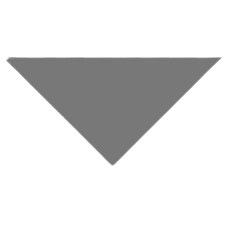
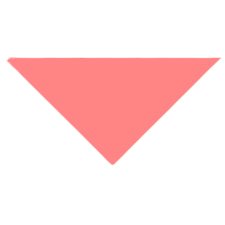
Updated

Changed region(s): [[0.0311, 0.2489, 0.9956, 0.7467]]

diff --git a/src/views/HomeView.vue b/src/views/HomeView.vue
@@ -87,7 +87,7 @@
           <div>Safety check</div>
           <div class="border flex gap-1 items-center px-3 py-1">
             <div>24h</div>
-            <img src="@/assets/dropdown.png" class="w4 h-4" />
+            <img src="@/assets/triangle.png" class="w4 h-4" />
           </div>
         </div>
         <div class="flex justify-between">
@@ -131,7 +131,7 @@
         <div class="p-2 flex justify-between bg-gray-light rounded-md">
           <div class="flex items-center gap-4">
             <div>SOL</div>
-            <img src="@/assets/dropdown.png" class="w-4 h-4" />
+            <img src="@/assets/triangle.png" class="w-4 h-4" />
           </div>
           <div class="flex flex-col gap-2 items-end">
             <div>0.00</div>
@@ -143,10 +143,10 @@
             </div>
           </div>
         </div>
-        <img src="@/assets/dropdown.png" class="w-4 h-4 mx-auto" />
+        <img src="@/assets/triangle.png" class="w-4 h-4 mx-auto" />
         <div class="flex items-center gap-4 ml-2">
           <div>SOL</div>
-          <img src="@/assets/dropdown.png" class="w-4 h-4" />
+          <img src="@/assets/triangle.png" class="w-4 h-4" />
         </div>
         <center><a class="button-scale"><button
               class="border text-center border-orange-primary text-orange-primary px-20 py-2 rounded-md">
@@ -160,7 +160,7 @@
           <div>Watchlist</div>
           <div class="border flex gap-1 items-center px-3 py-1">
             <div>Tokens</div>
-            <img src="@/assets/dropdown.png" class="w4 h-4" />
+            <img src="@/assets/triangle.png" class="w4 h-4" />
           </div>
         </div>
         <div class="text-center">No data</div>
@@ -169,26 +169,26 @@
       <div class="flex flex-col bg-gray-primary rounded-lg gap-2 p-2 lg:w-[300px]">
         <div class="flex justify-between items-center">
           <div>Upcoming deals</div>
-          <img src="@/assets/dropdown.png" class="w4 h-4" />
+          <img src="@/assets/triangle.png" class="w4 h-4" />
         </div>
         <div class="gray-line"></div>
         <div class="flex flex-col gap-4">
           <div class="flex gap-3 items-center">
-            <img src="@/assets/dropdown.png" class="w8 h-8">
+            <img src="@/assets/triangle.png" class="w8 h-8">
             <div class="flex flex-col gap-0.5">
               <div class="text-white">eyedriB</div>
               <div>Launch <span class="text-white">eyedriB</span></div>
             </div>
           </div>
           <div class="flex gap-3 items-center">
-            <img src="@/assets/dropdown.png" class="w8 h-8">
+            <img src="@/assets/triangle.png" class="w8 h-8">
             <div class="flex flex-col gap-0.5">
               <div class="text-white">SBF</div>
               <div>Locked in <span class="text-white">New York federal prison</span></div>
             </div>
           </div>
           <div class="flex gap-3 items-center">
-            <img src="@/assets/dropdown.png" class="w8 h-8">
+            <img src="@/assets/triangle.png" class="w8 h-8">
             <div class="flex flex-col gap-0.5">
               <div class="text-white">Solana</div>
               <div>Going to <span class="text-white">500USD</span></div>
